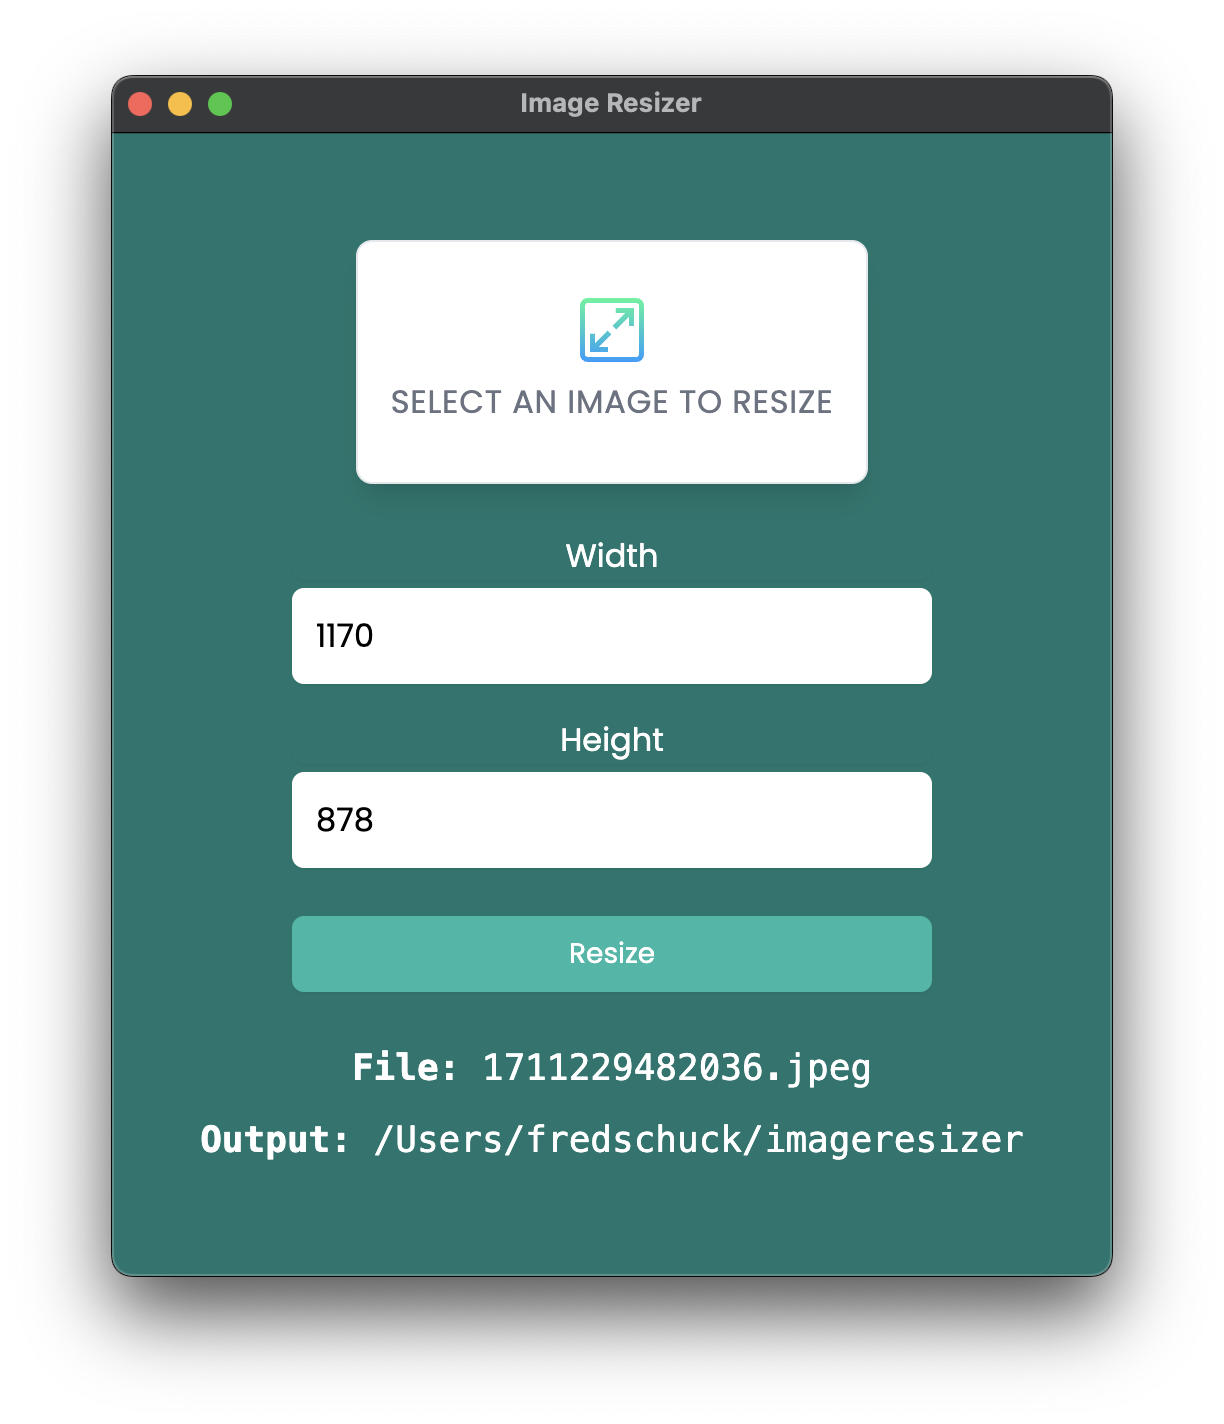
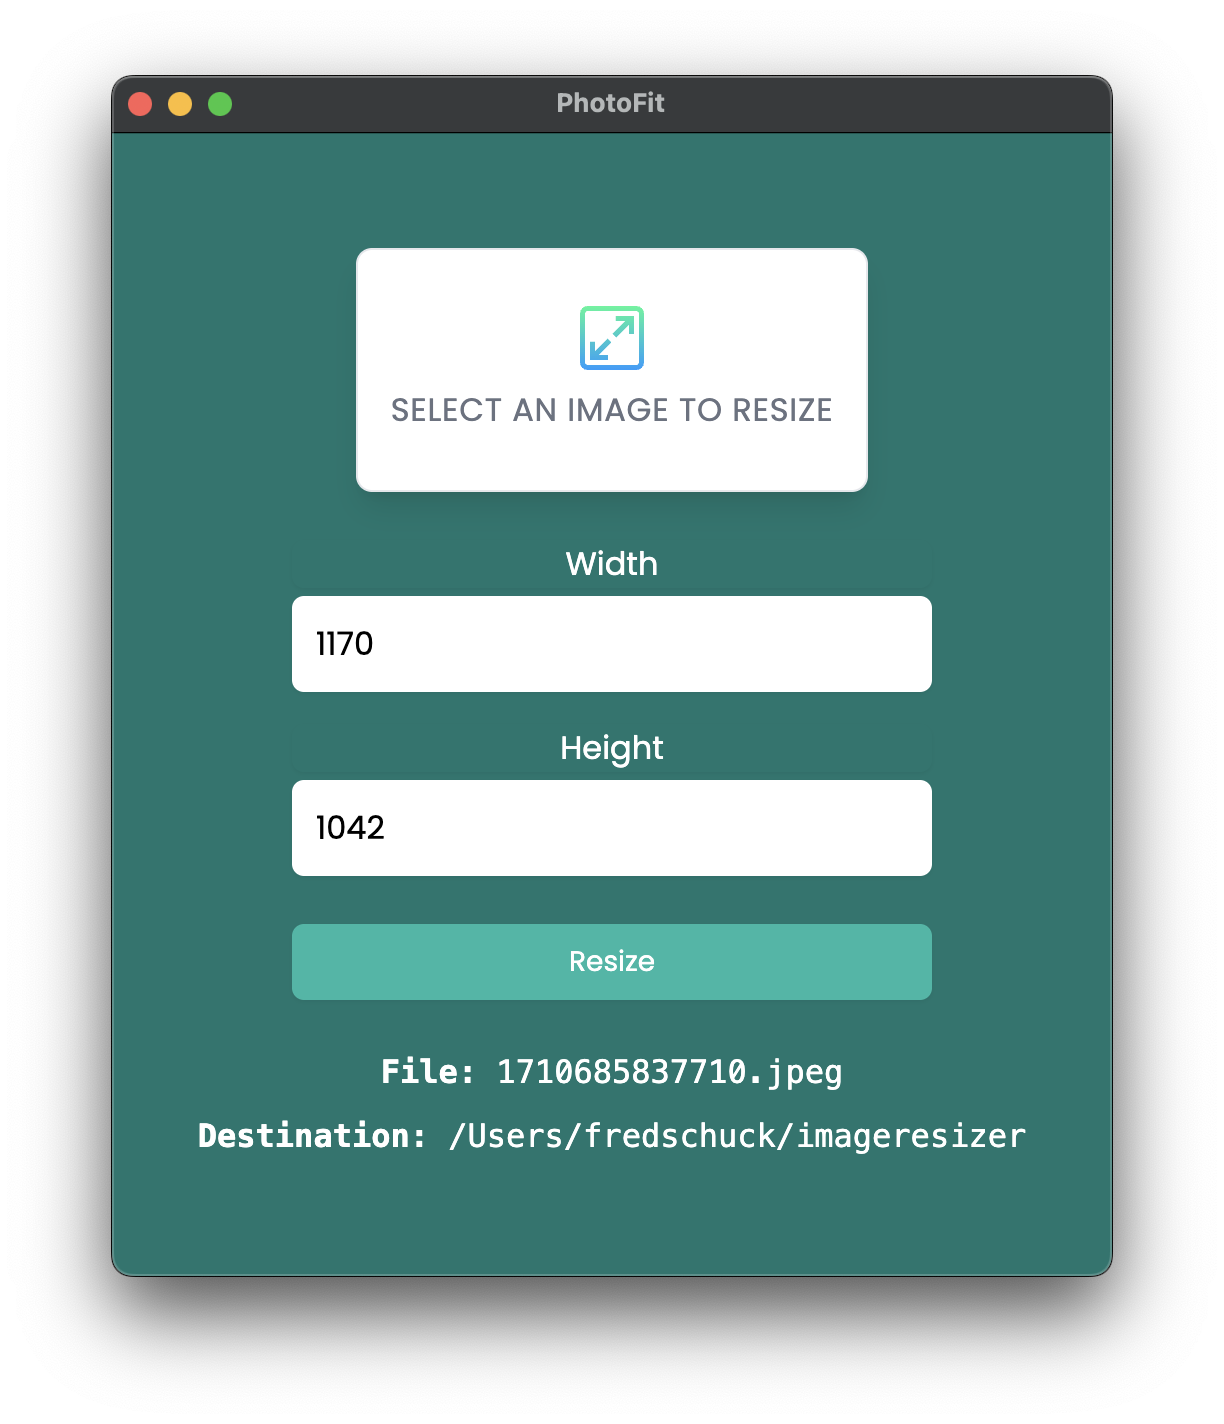
Changed title

diff --git a/renderer/index.html b/renderer/index.html
@@ -13,7 +13,7 @@
     />
     <link rel="stylesheet" href="css/style.css" />
     <script src="js/renderer.js" defer></script>
-    <title>Image Resizer</title>
+    <title>PhotoFit</title>
   </head>
   <body class="bg-teal-700">
     <div
@@ -64,8 +64,8 @@
 
       </form>
 
-      <p class="text-white text-lg text-center font-mono mt-6"><strong>File: </strong><span id="filename"></span></p>
-      <p class="text-white text-lg text-center font-mono mt-2"><strong>Output: </strong><span id="output-path"></span></p>
+      <p class="text-white text-md text-center font-mono mt-6"><strong>File: </strong><span id="filename"></span></p>
+      <p class="text-white text-md text-center font-mono mt-2"><strong>Destination: </strong><span id="output-path"></span></p>
     </div>
   </body>
 </html>

diff --git a/main.js b/main.js
@@ -13,7 +13,7 @@ let mainWindow;
 //Create main window
 function createMainWindow() {
   mainWindow = new BrowserWindow({
-    title: "ImageShrink",
+    title: "PhotoFit",
     width: isDev ? 1000 : 500,
     height: 600,
     webPreferences: {
@@ -34,7 +34,7 @@ function createMainWindow() {
 // Create about window
 function createAboutWindow() {
   const aboutWindow = new BrowserWindow({
-    title: "ImageResizer",
+    title: "PhotoFit - About",
     width: 300,
     height: 300,
   });
